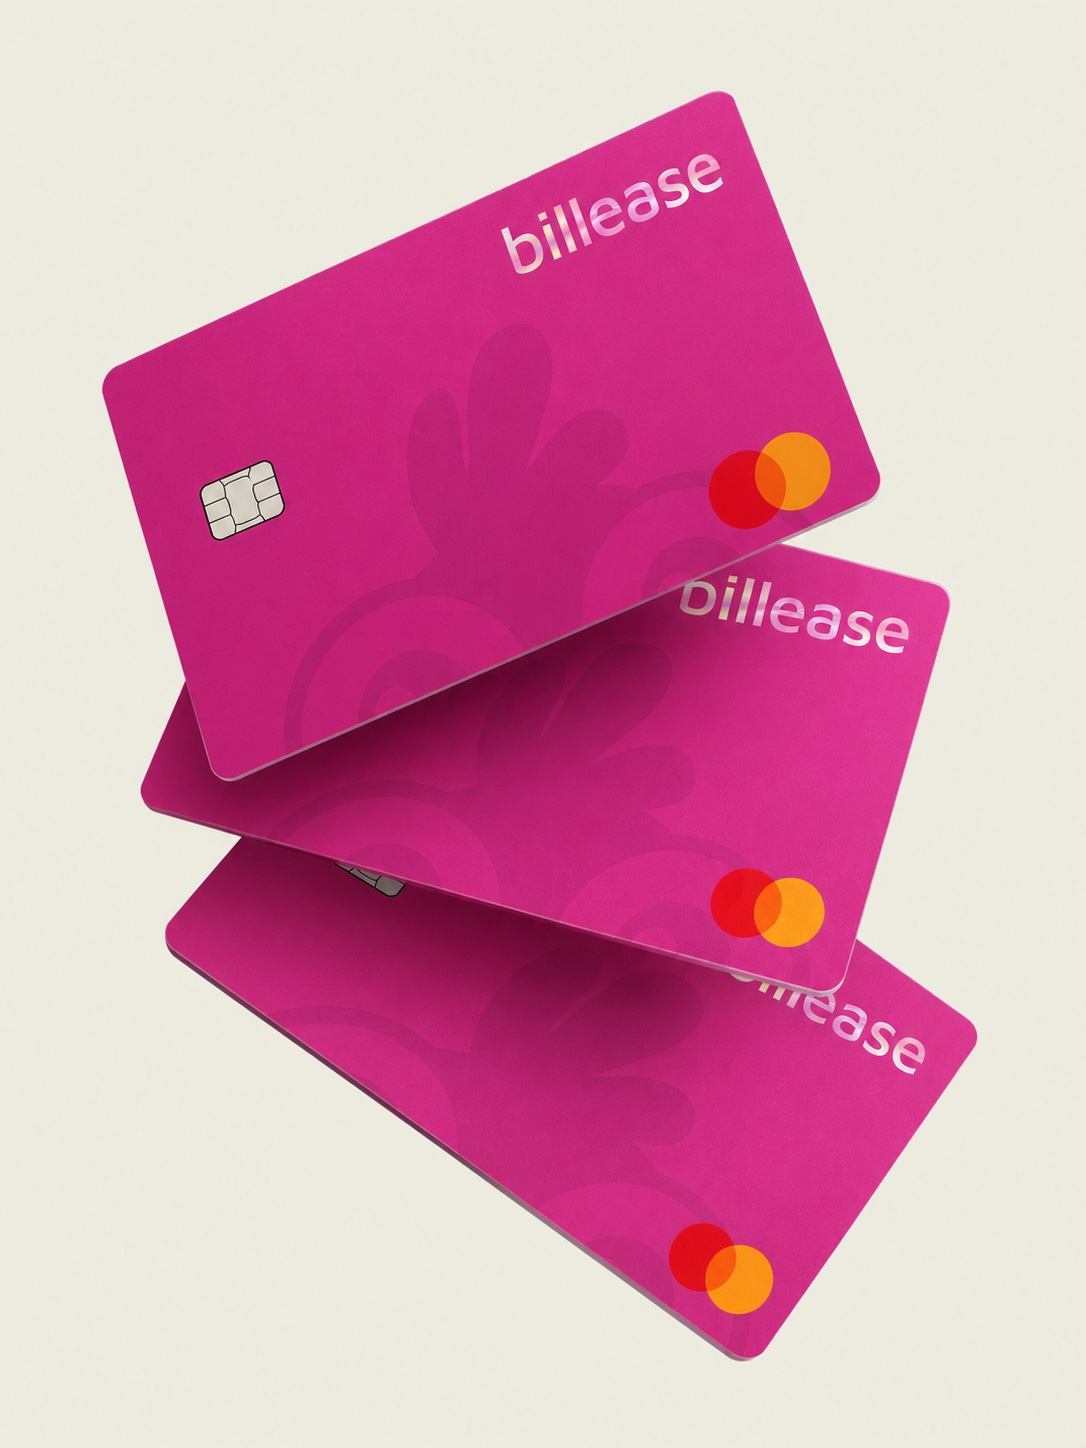
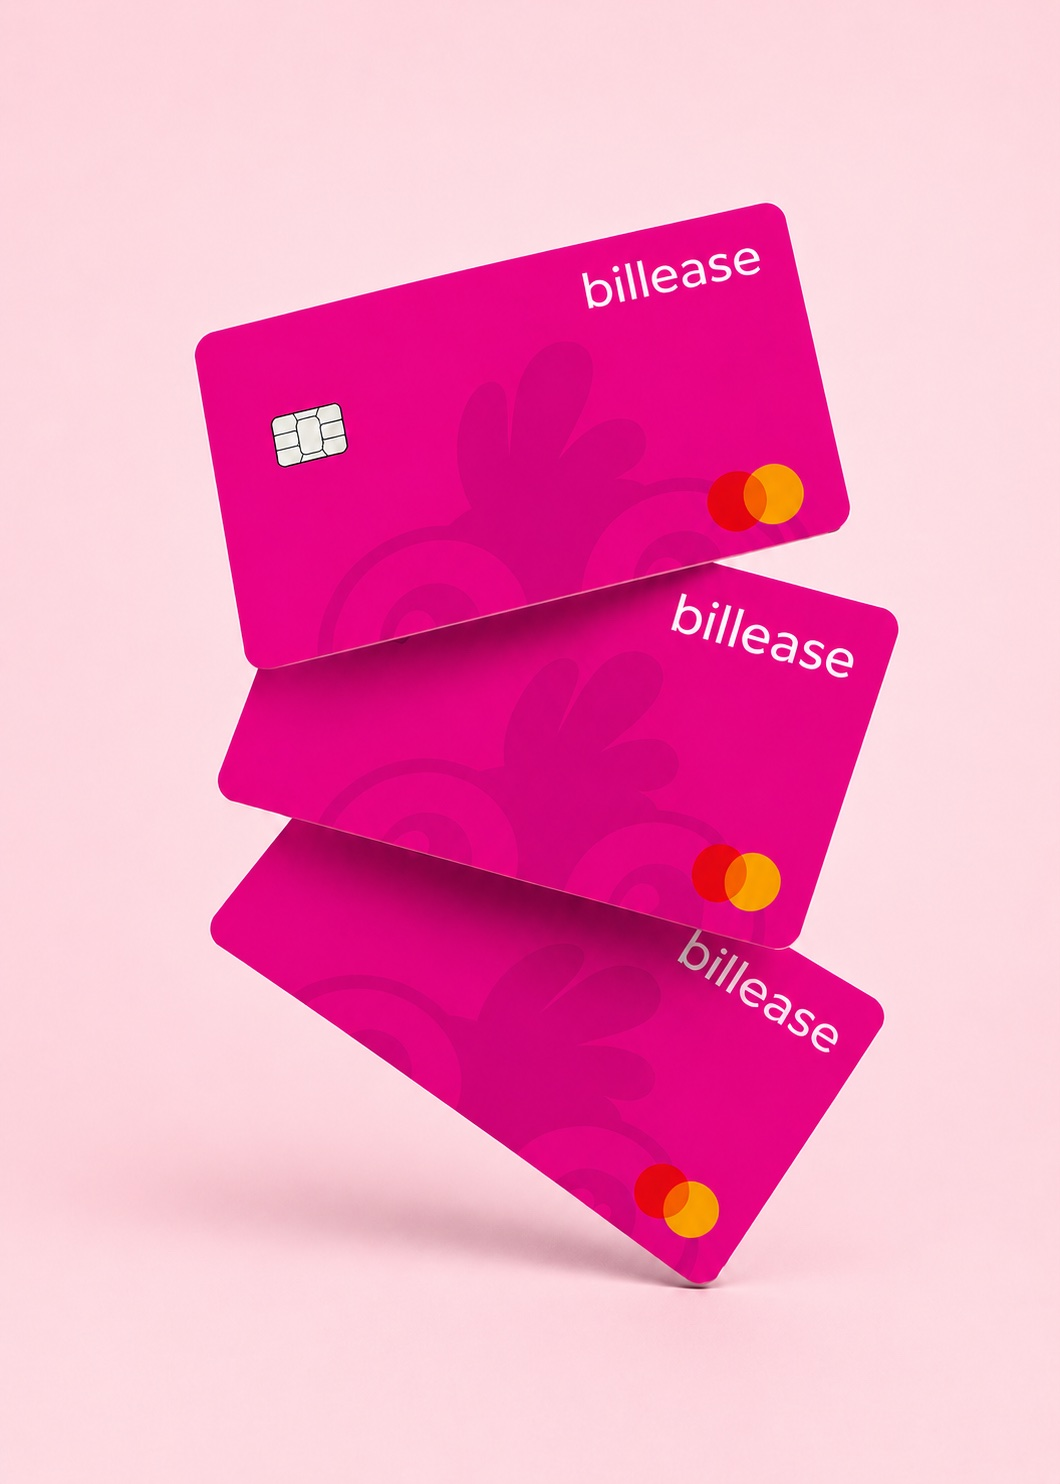
Swap the hero card image, drop the conditions subheading
Image
- new card render, converted PNG -> JPEG at quality 85: 1336 kB -> 175 kB,
  87% smaller at the original 1060x1484
- aspect ratio slot updated from 3/4 to 1060/1484. The source is 0.714, not
  0.75, so the old slot would have cropped about 5% off the sides through
  object-fit: cover
- radii untouched: still wrapped in .c-media at --radius-2xl (24px)

Copy
- removed "Here's what to expect before you activate." under "Important things
  to know". The heading already says it.

diff --git a/src/content/products/access-card.js b/src/content/products/access-card.js
@@ -71,7 +71,9 @@ export default {
       media: {
         src: '/access-card.jpg',
         alt: 'Three Billease Access Cards',
-        ratio: '3 / 4',
+        // The source is 1060x1484. Matching it exactly rather than rounding to
+        // 3/4 avoids object-fit cropping roughly 5% off the sides.
+        ratio: '1060 / 1484',
       },
       // No tinted panel behind it: the photograph carries its own background,
       // and a tint would read as a box inside a box.
@@ -156,7 +158,6 @@ export default {
       id: 'conditions',
       type: 'conditions',
       title: 'Important things to know',
-      description: "Here's what to expect before you activate.",
       items: [
         {
           icon: 'clock',
